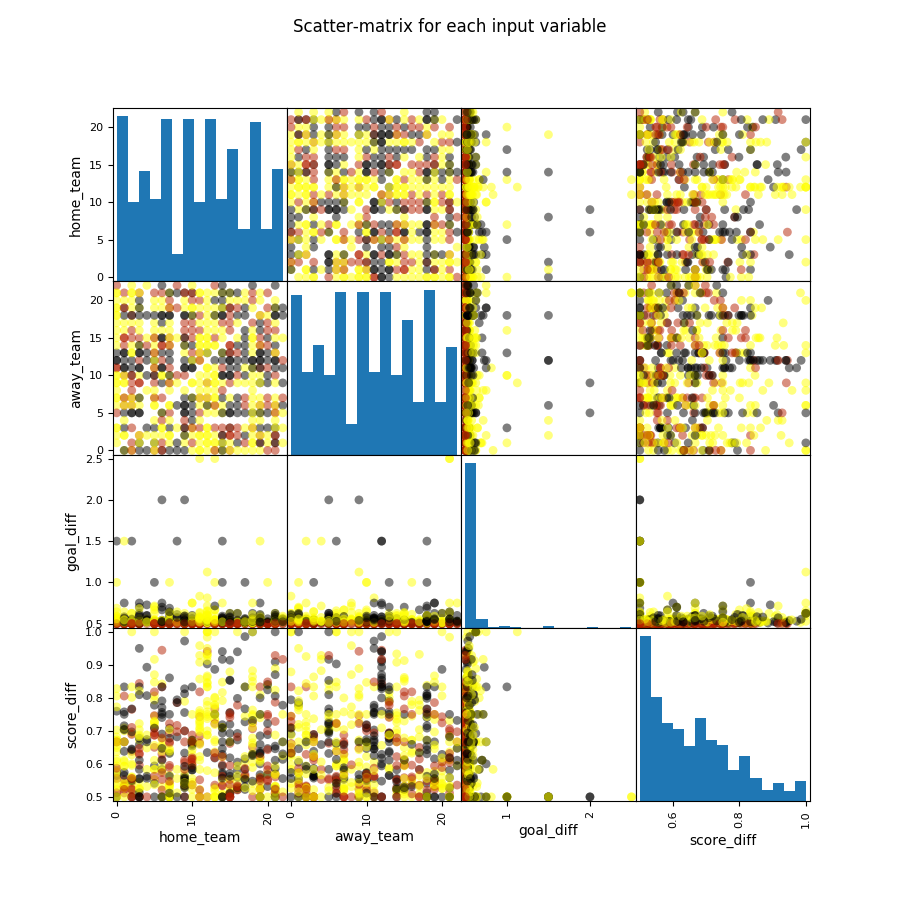
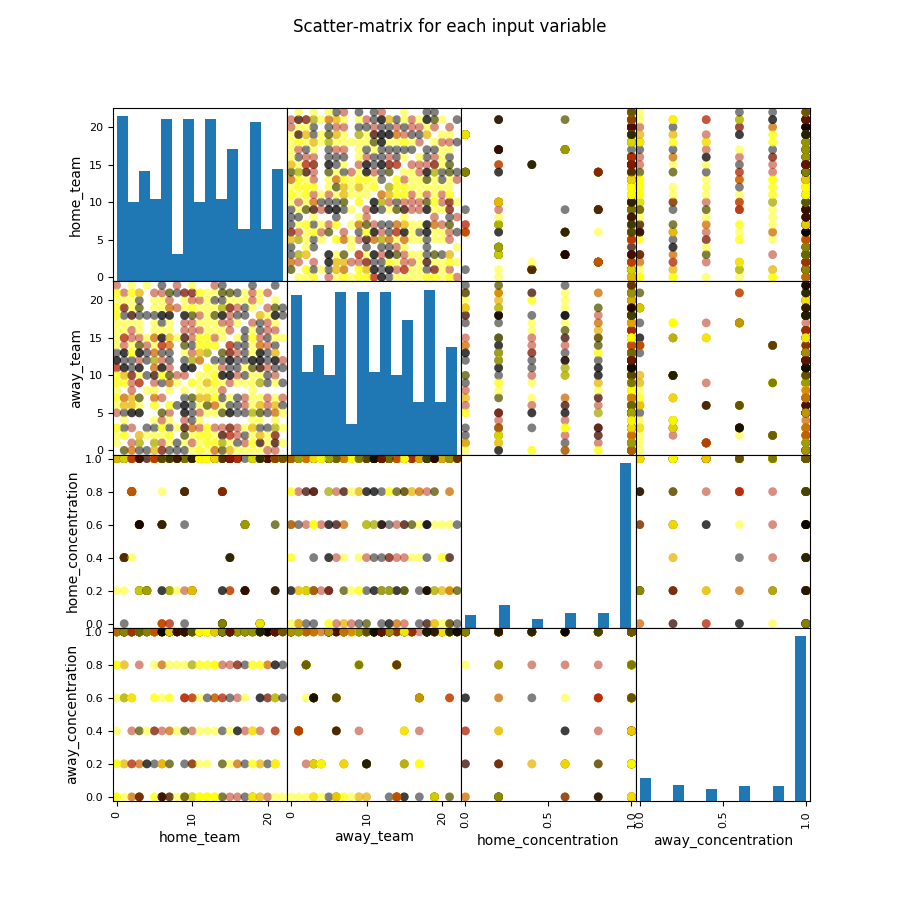
[Added more models to extracted data modelling and fixed output colors]

Changed region(s): [[0.0622, 0.1244, 0.9022, 0.9644], [0.0622, 0.7156, 0.0933, 0.8711]]

diff --git a/mysite/polls/Data/Extraction/goal_score_diff_extraction.py b/mysite/polls/Data/Extraction/goal_score_diff_extraction.py
@@ -1,40 +1,80 @@
-from ...models import MatchRawData
-from django.db.models import Q
 from .season_tables_extraction import get_season_data, get_team_season_data
+from ...models import MatchRawData
 
 
 def goal_diff_extraction(home_team, away_team, date_played, season):
-    match = MatchRawData.objects.all().filter(home_team=home_team, away_team=away_team, date=date_played)[0]
+    match = MatchRawData.objects.all(). \
+        filter(home_team=home_team, away_team=away_team, date=date_played)[0]
+    all_matches = MatchRawData.objects.all().filter(season=season,date__lt=date_played)
     home_goals = match.full_time_home_goals
     away_goals = match.full_time_away_goals
-    diff = abs(home_goals - away_goals)
-    season_data = get_season_data(season, date_played)
-    first_pos_team = get_first_pos_team(season_data)
-    first_team_diff = 0 if first_pos_team is None else first_pos_team.goals_scored - first_pos_team.goals_received
-    last_pos_team = get_last_pos_team(season_data)
-    last_team_diff = 0 if last_pos_team is None else last_pos_team.goals_scored - last_pos_team.goals_received
-    max_diff = abs(first_team_diff - last_team_diff)
+
+    diff = home_goals - away_goals
+
+    max_diff = 0
+    for match in all_matches:
+        current_home_goals = match.full_time_home_goals
+        current_away_goals = match.full_time_away_goals
+        diff = abs(current_home_goals - current_away_goals)
+        if diff > max_diff: max_diff = diff
+
     return calculate_goal_score_diff(diff, max_diff)
+
+
+def goal_diff_extraction_2(home_team, away_team, date_played, season):
+    season_data = get_season_data(season, date_played)
+
+    if len(season_data) == 0:
+        return 0.5
+
+    home_team_season_data = [x for x in season_data if x.team == home_team][0]
+    away_team_season_data = [x for x in season_data if x.team == away_team][0]
+
+    season_data = list(season_data)
+    season_data.sort(key=lambda x: (x.goals_scored - x.goals_received), reverse=True)
+
+    leader_season_data = season_data[0]
+
+    home_goal_diff = home_team_season_data.goals_scored - \
+                     home_team_season_data.goals_received
+
+    away_goal_diff = away_team_season_data.goals_scored - \
+                     away_team_season_data.goals_received
+
+    leader_goal_diff = leader_season_data.goals_scored - \
+                       leader_season_data.goals_received
+
+    diff = home_goal_diff - away_goal_diff
+    return calculate_goal_score_diff(diff, leader_goal_diff)
 
 
 def score_diff_extraction(home_team, away_team, date_played, season):
     season_data = get_season_data(season, date_played)
+
     first_pos_team = get_first_pos_team(season_data)
     last_pos_team = get_last_pos_team(season_data)
-    first_team_season_scores = 0 if first_pos_team is None else first_pos_team.points
-    last_team_season_scores = 0 if last_pos_team is None else last_pos_team.points
+
+    first_team_season_scores = 0 if first_pos_team is None \
+        else first_pos_team.points
+    last_team_season_scores = 0 if last_pos_team is None \
+        else last_pos_team.points
+
     max_diff = first_team_season_scores - last_team_season_scores
-    home_team_scores = 0 if get_team_season_data(season, date_played, home_team) is None else get_team_season_data(
-        season, date_played, home_team).points
-    away_team_scores = 0 if get_team_season_data(season, date_played, away_team) is None else get_team_season_data(
-        season, date_played, away_team).points
+
+    home_team_scores = 0 if get_team_season_data(season, date_played, home_team) is None \
+        else get_team_season_data(season, date_played, home_team).points
+    away_team_scores = 0 if get_team_season_data(season, date_played, away_team) is None \
+        else get_team_season_data(season, date_played, away_team).points
+
     diff = abs(home_team_scores - away_team_scores)
     return calculate_goal_score_diff(diff, max_diff)
 
 
 def calculate_goal_score_diff(diff, max_diff):
-    if max_diff==0: return 0.5
-    return 0.5 + diff / (2 *  max_diff)
+    if max_diff == 0:
+        return 0.5
+
+    return 0.5 + (diff / (2 * max_diff))
 
 
 def get_first_pos_team(season_data):
@@ -45,9 +85,11 @@ def get_first_pos_team(season_data):
 
 def get_last_pos_team(season_data):
     last_pos = 1
+
     for t in season_data:
         if t.position > last_pos:
             last_pos = t.position
+
     for t in season_data:
         if t.position == last_pos:
             return t

diff --git a/mysite/polls/Data/Analysis/analysis_model.py b/mysite/polls/Data/Analysis/analysis_model.py
@@ -9,10 +9,6 @@ TRAIN = 0
 TEST = 1
 
 
-def pad_string(string, empty_row_len):
-    return string.ljust(empty_row_len) + "|\n"
-
-
 class AnalysisModel:
     def __init__(self, all_data_df, feature_names, classificator, model_name):
         self.feature_names = feature_names
@@ -33,18 +29,16 @@ class AnalysisModel:
         self.k_neighbours_avg = [0, 0]
         self.bayes_avg = [0, 0]
 
-        self.empty_row_len = 0
-
     def __str__(self):
         log_reg_avg_str = \
-            "|Accuracy of Logistic regression classifier on {} set: {:.2f}"
+            "|Accuracy of Logistic regression classifier on {} set: \033[31m{:.2f}\033[93m\n"
 
         dec_tree_avg_str = \
-            "|Accuracy of Decision Tree classifier on {} set: {:.2f}"
+            "|Accuracy of Decision Tree classifier on {} set: \033[31m{:.2f}\033[93m\n"
 
-        knn_avg_str = "|Accuracy of K-NN classifier on {} set: {:.2f}"
+        knn_avg_str = "|Accuracy of K-NN classifier on {} set: \033[31m{:.2f}\033[93m\n"
 
-        bayes_avg_str = "|Accuracy of Bayes classifier on {} set: {:.2f}"
+        bayes_avg_str = "|Accuracy of Bayes classifier on {} set: \033[31m{:.2f}\033[93m\n"
 
         header_str = "+------------------- START %s -------------------+\n" % \
                      self.name
@@ -53,47 +47,34 @@ class AnalysisModel:
         empty_row_str = "|                                                        " \
                         "              |\n"
 
-        classificator_str = "|Classificator: '%s" % self.classificator
-        features_str = "|Feature names: %s" % self.feature_names
-
-        self.empty_row_len = len(empty_row_str) - 2
+        classificator_str = "|Classificator: \033[31m'%s'\033[93m\n" % self.classificator
+        features_str = "|Feature names: \033[31m%s\033[93m\n" % self.feature_names
 
         return "\033[93m%s%s%s%s%s%s%s%s%s%s%s%s%s%s%s%s\033[0m" % (
             header_str,
 
-            self.get_string(classificator_str),
-            self.get_string(features_str),
+            classificator_str,
+            features_str,
 
             empty_row_str,
 
-            self.get_string(log_reg_avg_str.format("training",
-                                                   self.logistic_reg_avg[TRAIN])),
-            self.get_string(log_reg_avg_str.format("test",
-                                                   self.logistic_reg_avg[TEST])),
+            log_reg_avg_str.format("training", self.logistic_reg_avg[TRAIN]),
+            log_reg_avg_str.format("test", self.logistic_reg_avg[TEST]),
 
             empty_row_str,
 
-            self.get_string(dec_tree_avg_str.format("training",
-                                                    self.decision_tree_avg[TRAIN])),
-            self.get_string(dec_tree_avg_str.format("test",
-                                                    self.decision_tree_avg[TEST])),
+            dec_tree_avg_str.format("training", self.decision_tree_avg[TRAIN]),
+            dec_tree_avg_str.format("test", self.decision_tree_avg[TEST]),
 
             empty_row_str,
 
-            self.get_string(knn_avg_str.format("training",
-                                               self.k_neighbours_avg[TRAIN])),
-            self.get_string(knn_avg_str.format("test",
-                                               self.k_neighbours_avg[TEST])),
+            knn_avg_str.format("training", self.k_neighbours_avg[TRAIN]),
+            knn_avg_str.format("test", self.k_neighbours_avg[TEST]),
             empty_row_str,
 
-            self.get_string(bayes_avg_str.format("training",
-                                                 self.bayes_avg[TRAIN])),
-            self.get_string(bayes_avg_str.format("test",
-                                                 self.bayes_avg[TEST])),
+            bayes_avg_str.format("training", self.bayes_avg[TRAIN]),
+            bayes_avg_str.format("test", self.bayes_avg[TEST]),
             footer_str)
-
-    def get_string(self, string):
-        return pad_string(string, self.empty_row_len)
 
     def test(self):
         self.logistic_reg_avg[TRAIN] = 0

diff --git a/mysite/polls/Data/Analysis/data_analysis.py b/mysite/polls/Data/Analysis/data_analysis.py
@@ -11,14 +11,15 @@ from ...models import MatchRawData
 
 from .analysis_model import AnalysisModel
 
-from .dependence_graphs import generate_dependecy_graphs
+from .dependence_graphs import generate_dependecy_graphs,\
+    generate_raw_data_dependency_graphs
 
 
 def analyze_data():
-    print("\033[31mStarting extracted data analysis \033[0m")
+    print("\033[94mStarting extracted data analysis \033[0m")
     analyze_extracted_data()
 
-    print("\033[31mStarting raw match data analysis \033[0m")
+    print("\033[94mStarting raw match data analysis \033[0m")
     analyze_raw_match_data()
 
 
@@ -34,13 +35,13 @@ def analyze_extracted_data():
     extracted_data_df['away_team'] = le.fit_transform(extracted_data_df['away_team'])
     extracted_data_df['result'] = le.fit_transform(extracted_data_df['result'])
 
-    generate_dependecy_graphs(extracted_data_df)
+    # generate_dependecy_graphs(extracted_data_df)
 
-    feature_names = [['home_team', 'away_team', 'goal_diff', 'score_diff'],
+    feature_names = [['home_team', 'away_team', 'history'],
+                     ['home_team', 'away_team', 'home_form', 'away_form'],
                      ['home_team', 'away_team', 'goal_diff', 'score_diff'],
-                     ['home_team', 'away_team', 'goal_diff', 'score_diff'],
-                     ['home_team', 'away_team', 'goal_diff', 'score_diff'],
-                     ['home_team', 'away_team', 'goal_diff', 'score_diff']]
+                     ['home_team', 'away_team', 'home_motivation', 'away_motivation'],
+                     ['home_team', 'away_team', 'home_concentration', 'away_concentration']]
 
     # BUILDING MODELS
 
@@ -76,7 +77,7 @@ def analyze_raw_match_data():
     extracted_data_df['full_time_result'] = \
         le.fit_transform(extracted_data_df['full_time_result'])
 
-    # generate_dependecy_graphs(extracted_data_df)
+    generate_raw_data_dependency_graphs(extracted_data_df)
 
     feature_names = [
         ['home_team', 'away_team', 'home_shots', 'away_shots'],
@@ -103,8 +104,8 @@ def analyze_raw_match_data():
 
 def generate_scatter_matrix(trainX, trainY, model_type, model_idx):
     cmap = cm.get_cmap('gnuplot')
-    scatter = scatter_matrix(trainX, c=trainY, marker='o', s=40, hist_kwds={'bins': 15},
-                             figsize=(9, 9), cmap=cmap)
+    scatter_matrix(trainX, c=trainY, marker='o', s=40, hist_kwds={'bins': 15},
+                   figsize=(9, 9), cmap=cmap)
 
     plt.suptitle('Scatter-matrix for each input variable')
     plt.savefig('%s_scatter_matrix_%s' % (model_type, model_idx))

diff --git a/mysite/polls/Data/Analysis/dependence_graphs.py b/mysite/polls/Data/Analysis/dependence_graphs.py
@@ -4,9 +4,40 @@ import numpy as np
 
 def generate_dependecy_graphs(train_df):
     analyze_form_difference_dependence(train_df)
-    analyze_goal_difference_dependence(train_df)
-    analyze_score_difference_dependence(train_df)
+    # analyze_goal_difference_dependence(train_df)
+    # analyze_score_difference_dependence(train_df)
     analyze_concentration_dependence(train_df)
+
+
+def generate_raw_data_dependency_graphs(train_df):
+    # analyze_yellow_card_dependece(train_df)
+    return
+
+
+def analyze_yellow_card_dependece(train_df):
+    #: score_dif dependence
+    res = []
+    matches_won = len([x for x in train_df['full_time_result'] if x == 1])
+
+    for cnt, row in enumerate(train_df.values):
+        yellow_cards = row[8]
+
+        test1 = train_df['full_time_result']
+        test2 = train_df['home_yellow_cards']
+
+        res.append(sum(
+            [x / matches_won for x, y in zip(train_df['full_time_result'],
+                                             train_df['home_yellow_cards'])
+             if (x == 1 and y < yellow_cards)]))
+
+    plt.figure('Yellow cards plot')
+    plt.plot(train_df['home_yellow_cards'], res, '.')
+
+    plt.xlabel('Yellow cards')
+    plt.ylabel('Win rate')
+
+    # plt.show()
+    plt.savefig('dependence_yellow_cards.png')
 
 
 def analyze_form_difference_dependence(train_df):
@@ -40,7 +71,11 @@ def analyze_goal_difference_dependence(train_df):
 
         zipped = zip(train_df['result'], train_df['goal_diff'])
 
-        res.append(sum([(x / matches_won) for x, y in zipped if (x == 1 and y < dif)]))
+        res.append(sum([x / matches_won for x, y in zipped if (x == 1 and y < dif)]))
+        # for x, y in zipped:
+        #     if x == 1 and y < dif:
+        #         print(x, y)
+        #         print("Kur")
 
     plt.figure('Goal diff plot')
     plt.plot(train_df['goal_diff'], res, '.')

diff --git a/mysite/polls/Data/Extraction/training_model.py b/mysite/polls/Data/Extraction/training_model.py
@@ -6,7 +6,8 @@ from .concentration_extraction import extract_concentration
 from .motivation_extraction import extract_motivation
 from mysite.config import recalculate_training_table
 from ..Extraction.history_extraction import extract_history
-from .goal_score_diff_extraction import goal_diff_extraction, score_diff_extraction
+from .goal_score_diff_extraction import goal_diff_extraction, goal_diff_extraction_2,\
+    score_diff_extraction
 
 import time
 
@@ -64,6 +65,10 @@ def seed_training_model_season(season, season_matches):
         start_time = time.time()
         goaldiff = goal_diff_extraction(curr_match.home_team, curr_match.away_team,
                                         curr_match.date, season)
+
+        # goaldiff = goal_diff_extraction_2(curr_match.home_team, curr_match.away_team,
+        #                                 curr_match.date, season)
+
         print("Extract goal difference took %s seconds" % (time.time() - start_time))
         print("\n")
 

diff --git a/mysite/mysite/config.py b/mysite/mysite/config.py
@@ -1,5 +1,5 @@
 should_truncate_tables = False
 recalculate_training_table = False
-is_debug = True
+is_debug = False
 data_start_year = 2012
 data_end_year = 2019
